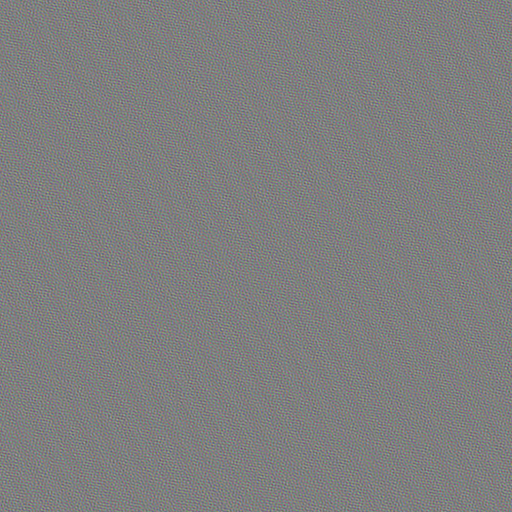
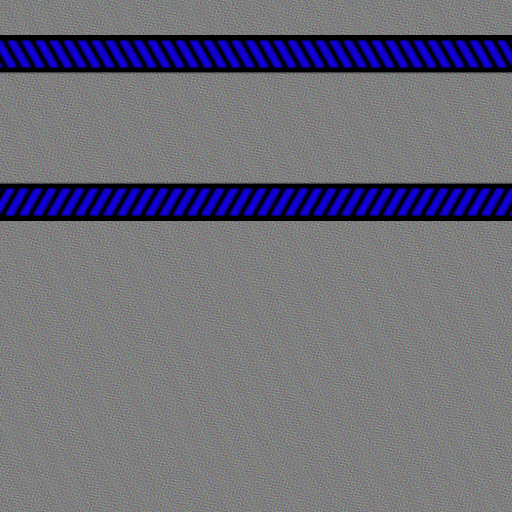
Part clicking made better

Changed region(s): [[0.0, 0.3438, 1.0, 0.4375], [0.0, 0.0625, 1.0, 0.1562]]

diff --git a/tethys/src/physics/collisions.rs b/tethys/src/physics/collisions.rs
@@ -1,3 +1,4 @@
+use core::f64;
 use std::{ops::AddAssign, vec::IntoIter};
 
 use cgmath::{InnerSpace, Rotation, Vector3};
@@ -217,6 +218,84 @@ impl CollisionBox {
         deepest_report
     }
     
+    /// Check for collisions between a box and a line. The origin p and direction v are in the box frame
+    fn check_ray(&self, p: Vector3<f64>, v: Vector3<f64>) -> CollisionReport {
+        let mut closest_report = CollisionReport::none();
+        let mut min_alpha = f64::INFINITY;
+        // Close, normal=x
+        let alpha = (self.corner.x - p.x) / v.x;
+        let x = p + v * alpha;
+        if self.corner.y < x.y && x.y < self.corner.y + self.dimensions.y {
+            if self.corner.z < x.z && x.z < self.corner.z + self.dimensions.z {
+                // It's in
+                if alpha < min_alpha {
+                    min_alpha = alpha;
+                    closest_report = CollisionReport::new(v * alpha, x);
+                }
+            }
+        }
+        // Far, normal=x
+        let alpha = (self.corner.x + self.dimensions.x - p.x) / v.x;
+        let x = p + v * alpha;
+        if self.corner.y < x.y && x.y < self.corner.y + self.dimensions.y {
+            if self.corner.z < x.z && x.z < self.corner.z + self.dimensions.z {
+                // It's in
+                if alpha < min_alpha {
+                    min_alpha = alpha;
+                    closest_report = CollisionReport::new(v * alpha, x);
+                }
+            }
+        }
+        // Close, normal=y
+        let alpha = (self.corner.y - p.y) / v.y;
+        let x = p + v * alpha;
+        if self.corner.x < x.x && x.x < self.corner.x + self.dimensions.x {
+            if self.corner.z < x.z && x.z < self.corner.z + self.dimensions.z {
+                // It's in
+                if alpha < min_alpha {
+                    min_alpha = alpha;
+                    closest_report = CollisionReport::new(v * alpha, x);
+                }
+            }
+        }
+        // Far, normal=y
+        let alpha = (self.corner.y + self.dimensions.y - p.y) / v.y;
+        let x = p + v * alpha;
+        if self.corner.x < x.x && x.x < self.corner.x + self.dimensions.x {
+            if self.corner.z < x.z && x.z < self.corner.z + self.dimensions.z {
+                // It's in
+                if alpha < min_alpha {
+                    min_alpha = alpha;
+                    closest_report = CollisionReport::new(v * alpha, x);
+                }
+            }
+        }
+        // Close, normal=z
+        let alpha = (self.corner.z - p.z) / v.z;
+        let x = p + v * alpha;
+        if self.corner.y < x.y && x.y < self.corner.y + self.dimensions.y {
+            if self.corner.x < x.x && x.x < self.corner.x + self.dimensions.x {
+                // It's in
+                if alpha < min_alpha {
+                    min_alpha = alpha;
+                    closest_report = CollisionReport::new(v * alpha, x);
+                }
+            }
+        }
+        // Far, normal=z
+        let alpha = (self.corner.z + self.dimensions.z - p.z) / v.z;
+        let x = p + v * alpha;
+        if self.corner.y < x.y && x.y < self.corner.y + self.dimensions.y {
+            if self.corner.x < x.x && x.x < self.corner.x + self.dimensions.x {
+                // It's in
+                if alpha < min_alpha {
+                    closest_report = CollisionReport::new(v * alpha, x);
+                }
+            }
+        }
+        closest_report
+    }
+    
     /// Check for collisions between two boxes
     fn check_box(&self, rigid_body: Option<&RigidBody>, o: &CollisionBox, o_rigid_body: Option<&RigidBody>) -> CollisionReport {
         let mut deepest_report = CollisionReport::none();
@@ -416,6 +495,7 @@ impl CollisionBox {
 pub enum Collider {
     Point {p: Vector3<f64>},
     Line {p: Vector3<f64>, v: Vector3<f64>},
+    Ray {p: Vector3<f64>, v: Vector3<f64>},
     Box(CollisionBox),
     BoxTree(BinaryTree<CollisionBox>),
 }
@@ -474,8 +554,25 @@ impl Collider {
                 x1.check_box(a.rigid_body, x2, b.rigid_body)
             },
             (Collider::BoxTree(t1), Collider::BoxTree(t2)) => {
-                //TODO optimize
+                //OPTIMIZE
                 check_tree(t1, |x1| check_tree(t2, |x2| x1.check_box(a.rigid_body, x2, b.rigid_body)))
+            },
+            (Collider::Point { .. }, Collider::Ray { .. }) |
+            (Collider::Line { .. }, Collider::Ray { .. }) |
+            (Collider::Ray { .. }, Collider::Point { .. }) |
+            (Collider::Ray { .. }, Collider::Line { .. })|
+            (Collider::Ray { .. }, Collider::Ray { .. }) => CollisionReport::none(),
+            (Collider::Ray { p, v }, Collider::Box(x)) |
+            (Collider::Box(x), Collider::Ray { p, v }) => {
+                let p = reorient(*p, a.rigid_body, b.rigid_body);
+                let v = reorient_rot(*v, a.rigid_body, b.rigid_body);
+                x.check_ray(p, v)
+            },
+            (Collider::Ray { p, v }, Collider::BoxTree(t)) |
+            (Collider::BoxTree(t), Collider::Ray { p, v }) => {
+                let p = reorient(*p, a.rigid_body, b.rigid_body);
+                let v = reorient_rot(*v, a.rigid_body, b.rigid_body);
+                check_tree(t, |x| x.check_ray(p, v))
             },
         }
     }

diff --git a/peregrine/src/ship/parts.rs b/peregrine/src/ship/parts.rs
@@ -1,4 +1,5 @@
-use tethys::prelude::*;
+use cgmath::{Rotation, Vector3};
+use tethys::{physics::collisions::CollisionBox, prelude::*};
 
 use super::PartLayout;
 
@@ -71,13 +72,13 @@ impl Part {
             Self::Tank { length } => {
                 let cap = part_loader.get_part_model(PartModel::TankCap).clone();
                 let body = part_loader.get_part_model(PartModel::TankBody).clone();
-                output.append(&mut self.get_blocks(layout).into_iter().enumerate().map(|(i, b)| {
+                output.append(&mut self.get_blocks(layout).into_iter().enumerate().map(|(i, layout)| {
                     if i == 0 {
-                        ObjectInfo::new(part_loader.graphics, cap.clone(), b, index)
+                        ObjectInfo::new(part_loader.graphics, cap.clone(), layout, index)
                     } else if i == *length as usize-1 {
-                        ObjectInfo::new(part_loader.graphics, body.clone(), b, index)
+                        ObjectInfo::new(part_loader.graphics, cap.clone(), layout, index)
                     } else {
-                        ObjectInfo::new(part_loader.graphics, cap.clone(), b, index)
+                        ObjectInfo::new(part_loader.graphics, body.clone(), layout, index)
                     }
                 }).collect::<Vec<_>>());
             },
@@ -107,6 +108,14 @@ impl Part {
             13|15 => (dimensions.1, dimensions.0, dimensions.2),
             _ => unreachable!()
         }
+    }
+    
+    pub(crate) fn get_collider(&self, layout: &PartLayout) -> CollisionBox {
+        let dimensions = self.get_dimensions(layout.orientation);
+        let dimensions = Vector3::new(dimensions.0 as f64, dimensions.1 as f64, dimensions.2 as f64);
+        let (offset, quat) = layout.as_physical();
+        let offset = offset - dimensions / 2.;
+        CollisionBox::new(offset, quat.rotate_vector(dimensions))
     }
 }
 

diff --git a/peregrine/src/ship/mod.rs b/peregrine/src/ship/mod.rs
@@ -8,7 +8,7 @@ mod parts;
 pub use parts::{Part, PartLoader};
 
 /// The physical position of a part
-#[derive(Clone, Copy)]
+#[derive(Clone, Copy, Debug)]
 pub struct PartLayout {
     pub x: i32,
     pub y: i32,
@@ -141,9 +141,7 @@ impl ShipInterior {
         let mut boxes = Vec::with_capacity(parts.len());
         for (i, (part, layout)) in parts.iter().zip(&layouts).enumerate() {
             objects.append(&mut part.get_objects(part_loader, *layout, i));
-            let (offset, quat) = layout.as_physical();
-            let dimensions = part.get_dimensions(layout.orientation);
-            boxes.push(CollisionBox::new(offset, quat.rotate_vector(Vector3::new(dimensions.0 as f64, dimensions.1 as f64, dimensions.2 as f64))));
+            boxes.push(part.get_collider(layout));
             for block in part.get_blocks(*layout) {
                 grid.update(block, i);
             }
@@ -166,10 +164,10 @@ impl ShipInterior {
 
     /// Update all the objects within the ship according to the physics component
     pub fn update_graphics(&mut self) {
-        for object in &mut self.objects {
-            let (position, orientation) = object.layout.as_physical();
-            object.object.position = self.rigid_body.pos + self.rigid_body.orientation.rotate_vector(position);
-            object.object.orientation = self.rigid_body.orientation * orientation;
+        for object_info in &mut self.objects {
+            let (position, orientation) = object_info.layout.as_physical();
+            object_info.object.position = self.rigid_body.pos + self.rigid_body.orientation.rotate_vector(position);
+            object_info.object.orientation = self.rigid_body.orientation * orientation;
         }
     }
     

diff --git a/peregrine/src/main.rs b/peregrine/src/main.rs
@@ -26,16 +26,25 @@ impl App for Peregrine {
     fn new(graphics: &Graphics) -> Self {
         std::env::set_var("RUST_LOG", "warn");
         env_logger::init();
-        let shader = Shader::new::<TexVertex>(graphics, include_str!("../shaders/shader.wgsl"), &[
+        let shader = Shader::new::<TexVertex>(graphics, include_str!("shaders/shader.wgsl"), &[
             ShaderBinding::Camera,
             ShaderBinding::Model,
             ShaderBinding::Texture,
         ]);
         let camera = Camera::new(&graphics, Vector3::new(-2., 0., 0.), 1.57, 0., 0.1, 10., 1.5);
         let mut part_loader = PartLoader::new(graphics);
-        let rigid_body = RigidBody::new(Vector3::new(0., 0., 0.), Vector3::new(0., 0.1, 0.), Quaternion::new(1., 0., 0., 0.), Vector3::new(0., 0., 0.), 1., (1., 1., 1.));
-        let parts = vec![Part::Tank {length: 3}];//, Part::FuelCell];
-        let layout = vec![PartLayout { x: 0, y: 0, z: 0, orientation: 0 }, PartLayout { x: 1, y: 0, z: 0, orientation: 0 }, ];
+        let rigid_body = RigidBody {
+            angvel: Quaternion::new(0., 0., 3.0, 0.0),
+            ..Default::default()
+        };
+        let parts = vec![
+            Part::Tank {length: 3}
+            //, Part::FuelCell
+        ];
+        let layout = vec![
+            PartLayout { x: 0, y: 0, z: 0, orientation: 0 },
+            // PartLayout { x: 1, y: 0, z: 0, orientation: 0 },
+        ];
         let ship = ShipInterior::new(&mut part_loader, parts, layout, rigid_body);
         let size = graphics.get_size();
 

diff --git a/peregrine/src/ui/placement.rs b/peregrine/src/ui/placement.rs
@@ -59,18 +59,21 @@ impl PlacementState {
 
     pub fn update(&mut self, camera: &Camera, closest_ship: &ShipInterior) {
         self.display = false;
-        let line = Collider::Line{p: camera.position, v: camera.get_forward()};
+        let line = Collider::Ray{p: camera.position, v: camera.get_forward()};
         let result = Collider::check_intersection(closest_ship.collider_package(), (&line).into());
         if !result.collision() { return; }
 
         let dist = (result.positions[0] - camera.position).magnitude() as f32;
         if dist > MAX_DISTANCE { return; }
 
-        let pos_in_grid = closest_ship.rigid_body.to_local(result.positions[0]) - self.place_coord;
+        let mut pos_in_grid = closest_ship.rigid_body.to_local(result.positions[0] - camera.get_forward().normalize() * 0.1) - self.place_coord;
+        pos_in_grid.x = pos_in_grid.x.round();
+        pos_in_grid.y = pos_in_grid.y.round();
+        pos_in_grid.z = pos_in_grid.z.round();
         let layout = PartLayout {
-            x: pos_in_grid.x.round() as i32,
-            y: pos_in_grid.y.round() as i32,
-            z: pos_in_grid.z.round() as i32,
+            x: pos_in_grid.x as i32,
+            y: pos_in_grid.y as i32,
+            z: pos_in_grid.z as i32,
             orientation: self.part_orientation,
         };
         if !closest_ship.is_new_part_allowed(self.part, layout) { return; }

diff --git a/readme.md b/readme.md
@@ -19,6 +19,7 @@ Other space games such as KSP and Space Engineers do this, but their ships are n
 
 ### Ship aesthetics
 * Ship exteriors
+* Better metal shader
 * Panels
 * Thrusters
 
